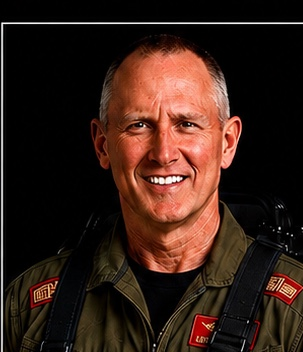
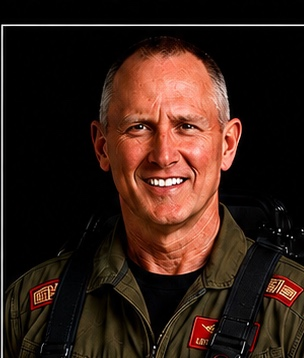
Team: match sample framing — full-cell portraits + 304/358 photo aspect; bump styles v94

diff --git a/css/styles.css b/css/styles.css
@@ -261,7 +261,7 @@ a { color: inherit; text-decoration: none; }
 .team-grid-wrap { padding: 34px 0 6px; }
 .team-grid { list-style: none; display: grid; grid-template-columns: repeat(3, 1fr); gap: 26px; }
 .team-card { border: 1px solid var(--line); display: flex; flex-direction: column; }
-.team-photo { aspect-ratio: 226 / 342; overflow: hidden; background: #0d0e10; }
+.team-photo { aspect-ratio: 304 / 358; overflow: hidden; background: #0d0e10; }
 .team-photo img { width: 100%; height: 100%; object-fit: cover; object-position: center top; display: block; }
 .team-name {
   font-family: "Oswald", sans-serif; font-weight: 700; font-size: 21px;

diff --git a/team.html b/team.html
@@ -11,7 +11,7 @@
   <link rel="apple-touch-icon" href="apple-touch-icon.png" />
   <link rel="preload" href="assets/fonts/oswald-latin.woff2" as="font" type="font/woff2" crossorigin />
   <link rel="preload" href="assets/fonts/inter-latin.woff2" as="font" type="font/woff2" crossorigin />
-  <link rel="stylesheet" href="css/styles.css?v=93" />
+  <link rel="stylesheet" href="css/styles.css?v=94" />
 </head>
 <body>
 